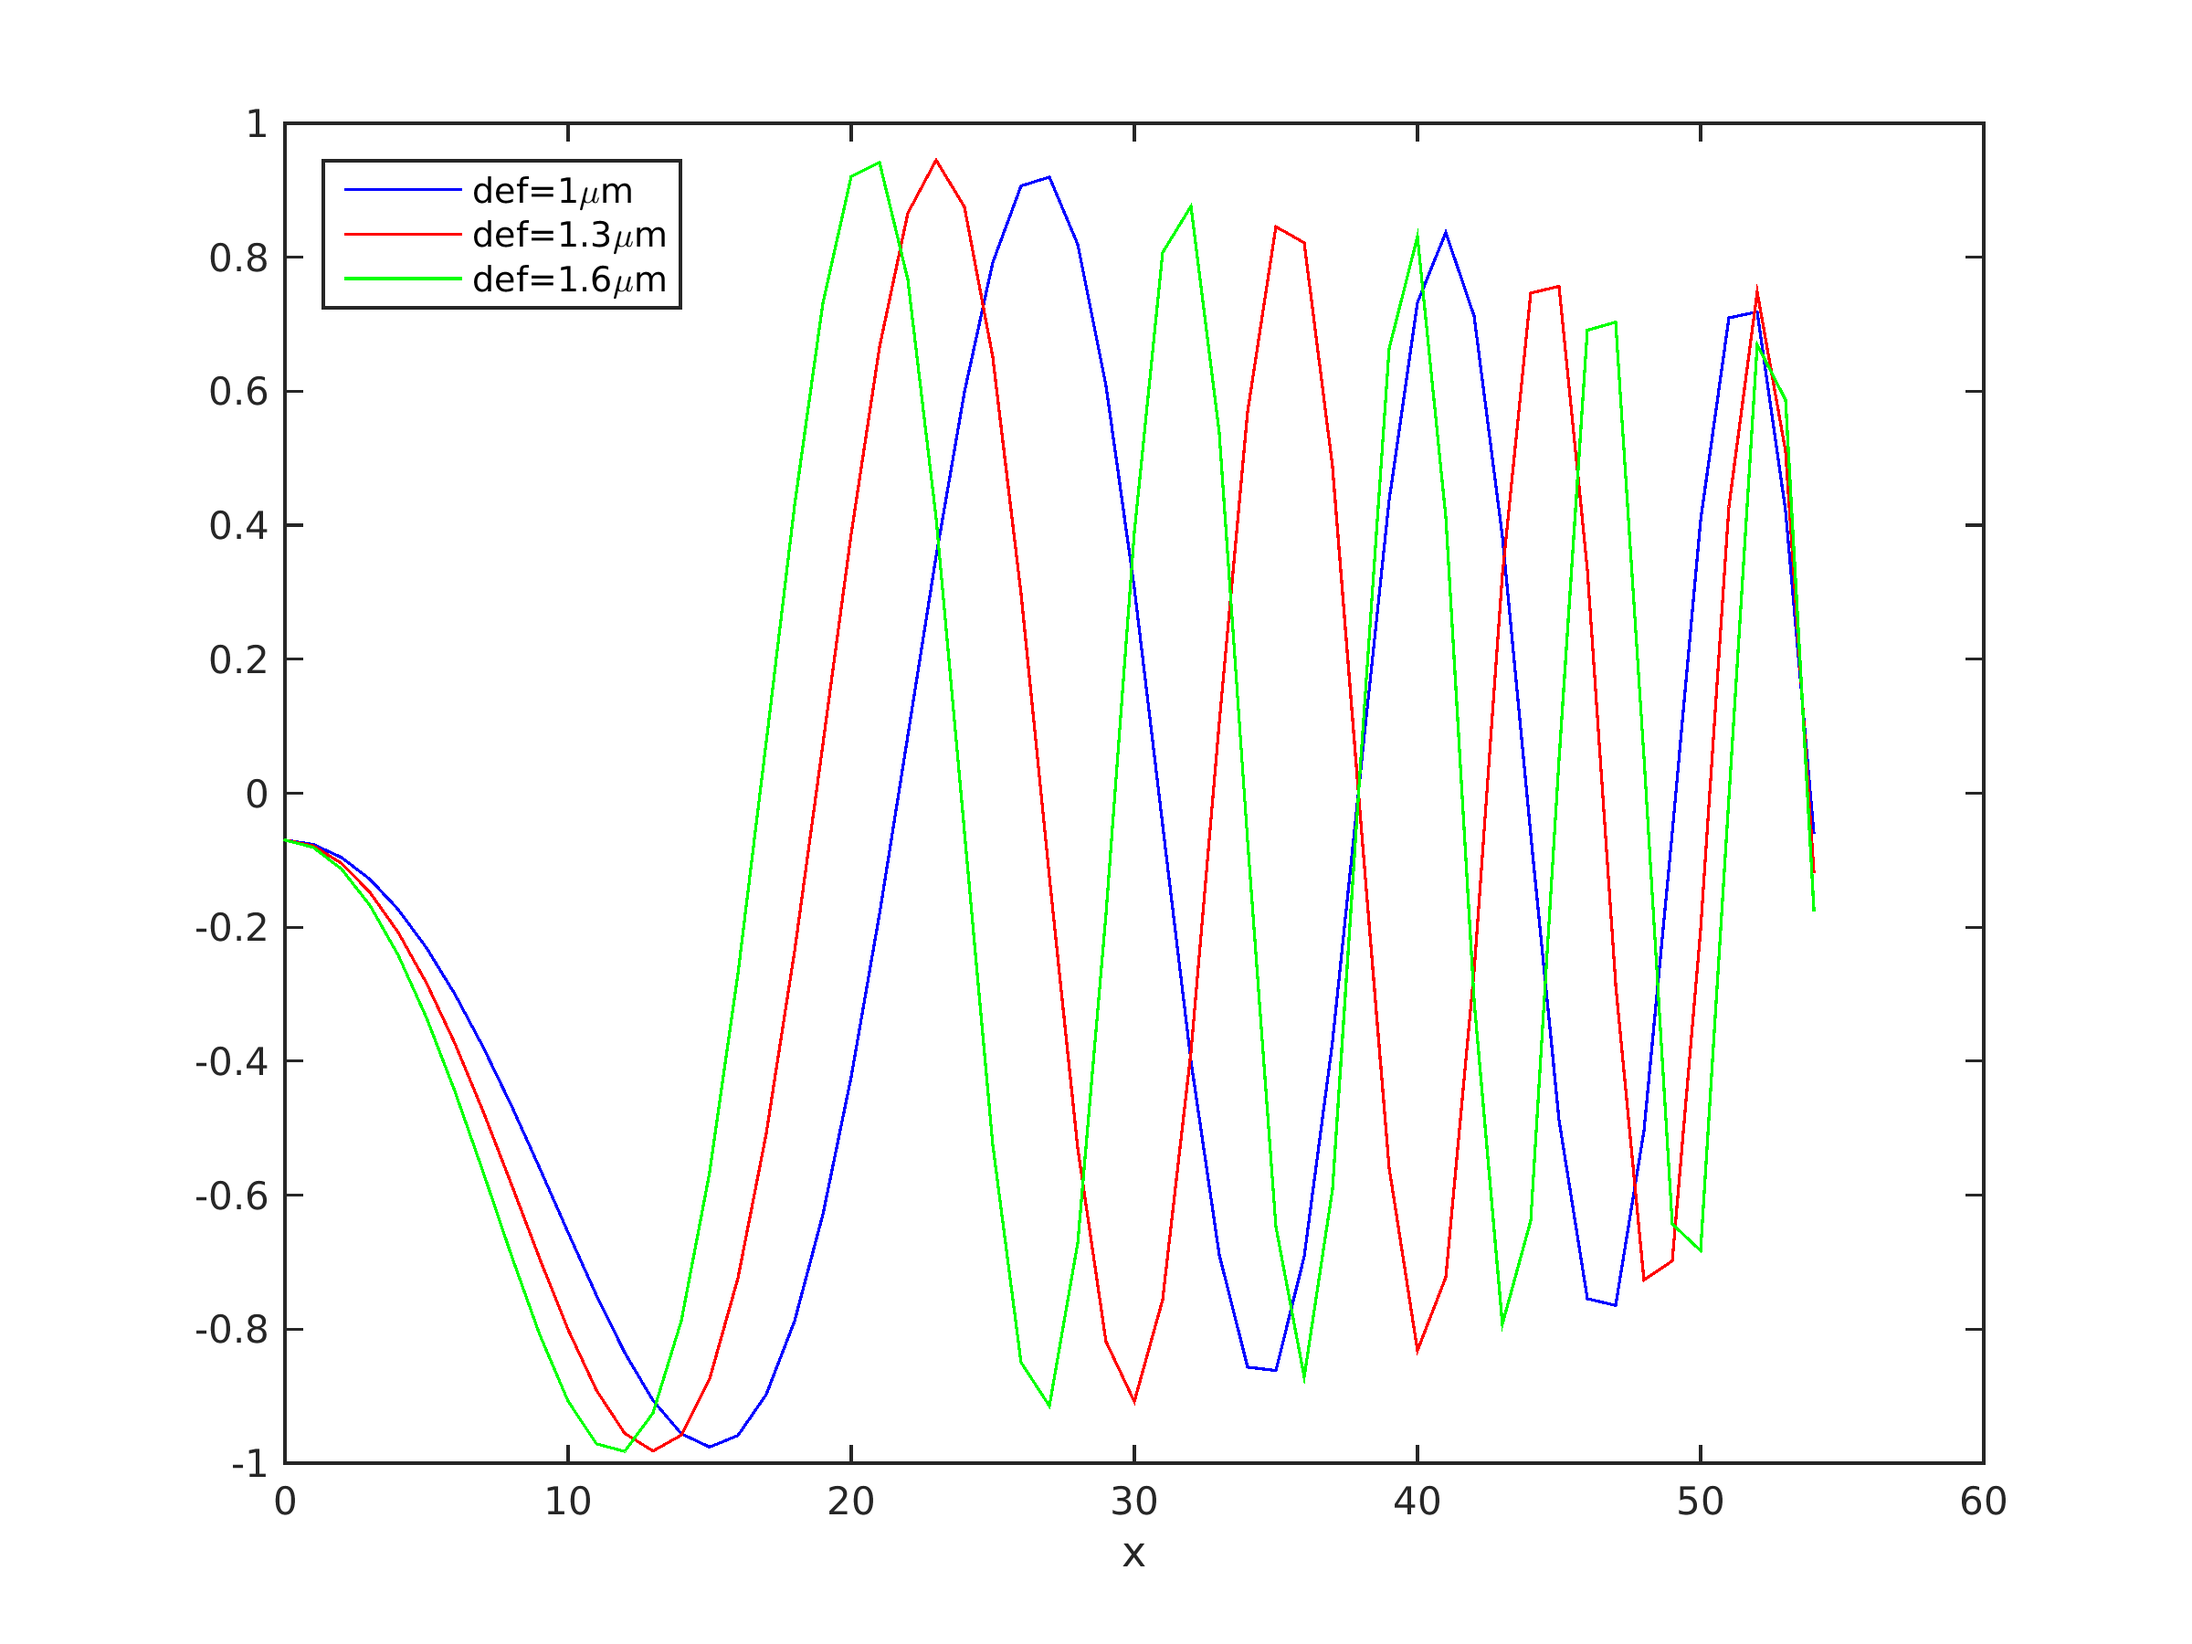
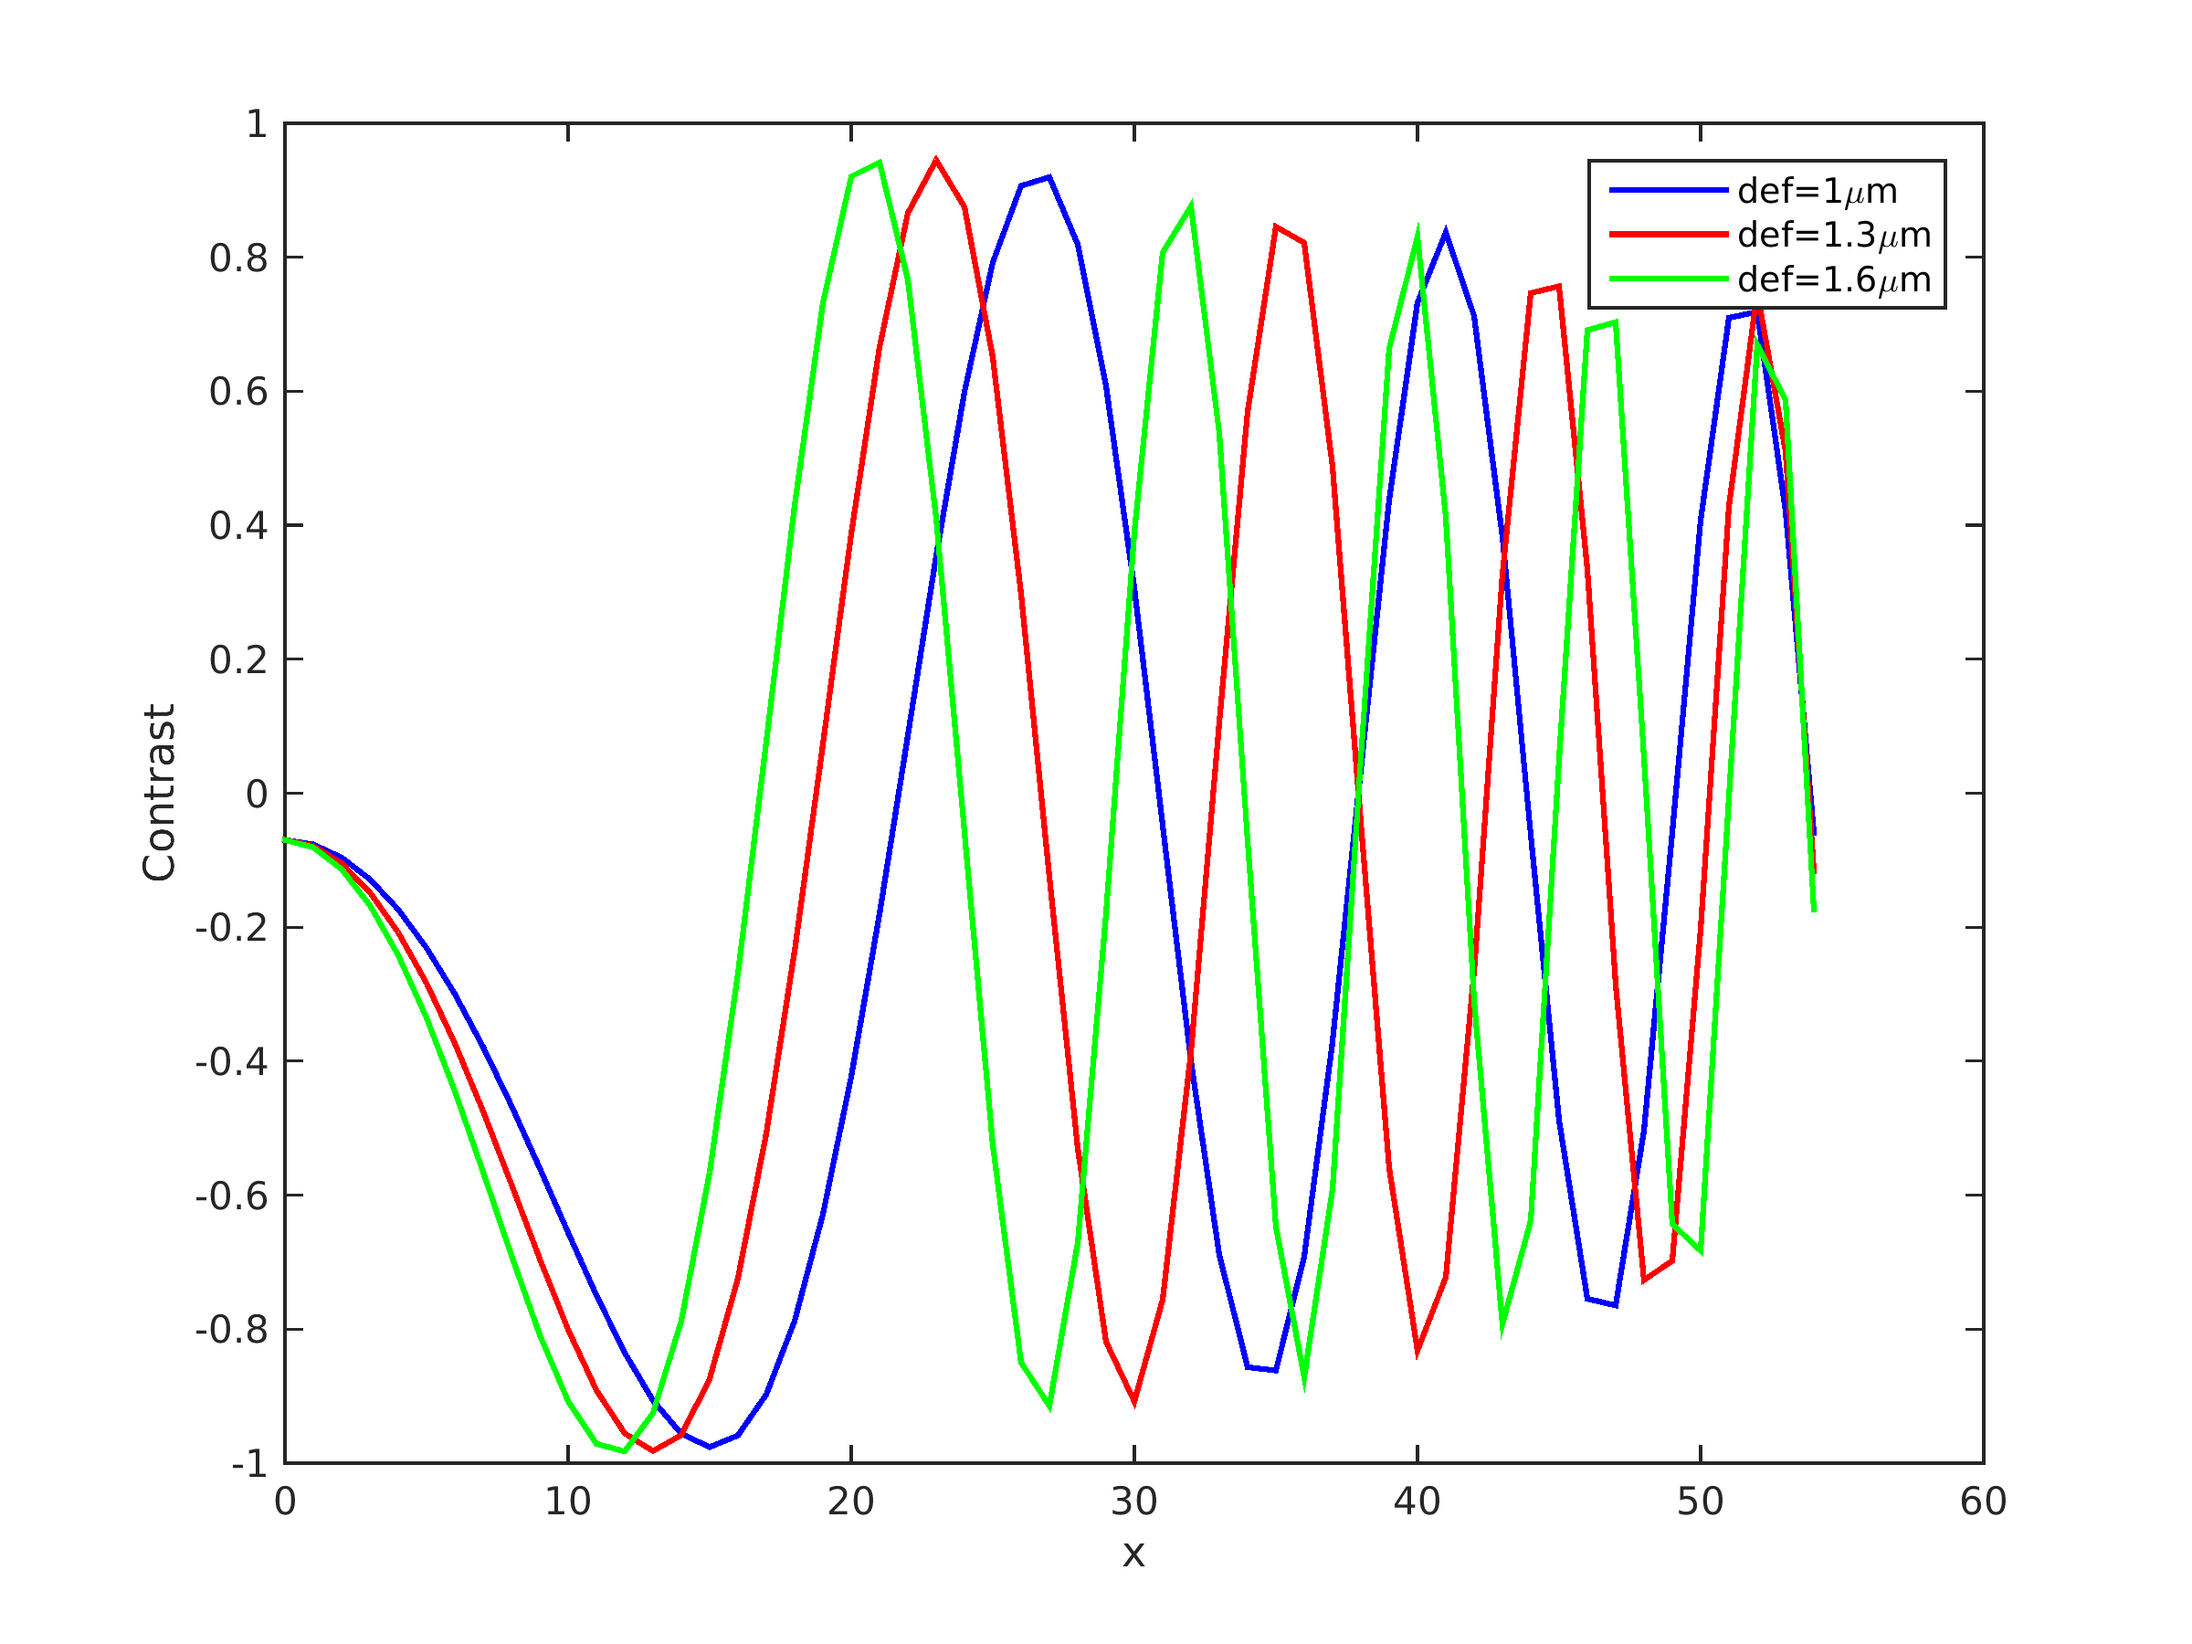
ctf fig

diff --git a/ctfs_fig.m b/ctfs_fig.m
@@ -13,7 +13,9 @@ hatI_curr=ones(109,109,10);
 
 x=[0:54];
 figure(1);
-plot(x,CTF(55,55:end,1),'b-',x,CTF(55,55:end,2),'r-',x,CTF(55,55:end,3),'g-');
-legend('def=1\mum', 'def=1.3\mum', 'def=1.6\mum', 'Location', 'NorthWest');
-xlabel('x');
+%plot(x,CTF(55,55:end,1),'b-','LineWidth',2, x,CTF(55,55:end,2),'r-','LineWidth',2, x,CTF(55,55:end,3),'g-','LineWidth',2 );
+plot(x,CTF(55,55:end,1),'b-', x,CTF(55,55:end,2),'r-', x,CTF(55,55:end,3),'g-','LineWidth',1.5 );
+legend({'def=1\mum', 'def=1.3\mum', 'def=1.6\mum'},'location','NorthWest', 'Box', 'off','FontSize',9);
+xlabel('x','FontSize',11);
+ylabel('Contrast','FontSize',11);
 print('ctfeg_fig', '-dpng', '-r300'); %<-Save as PNG with 300 DPI
